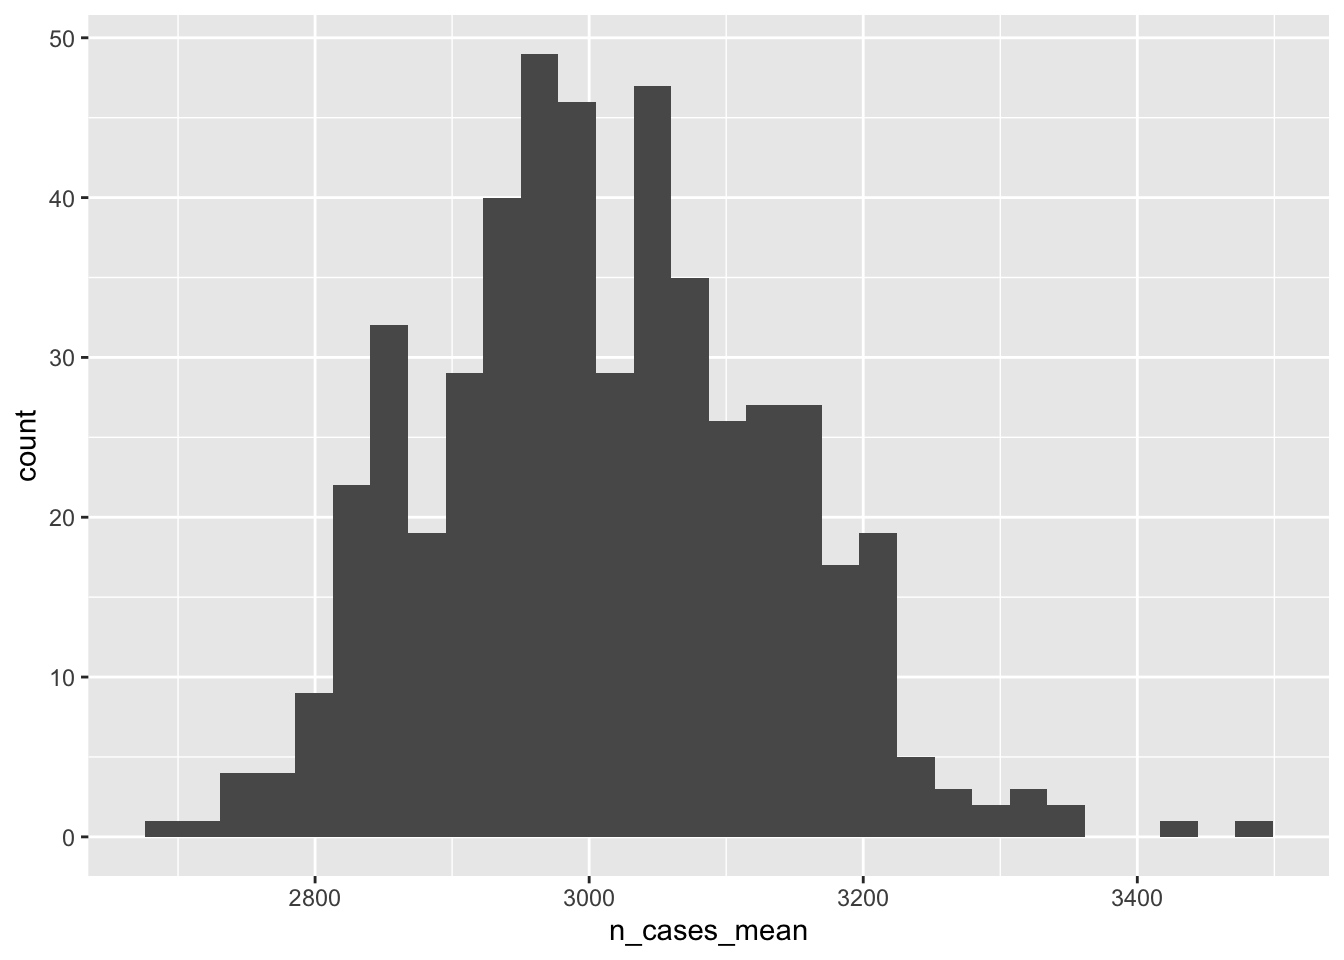
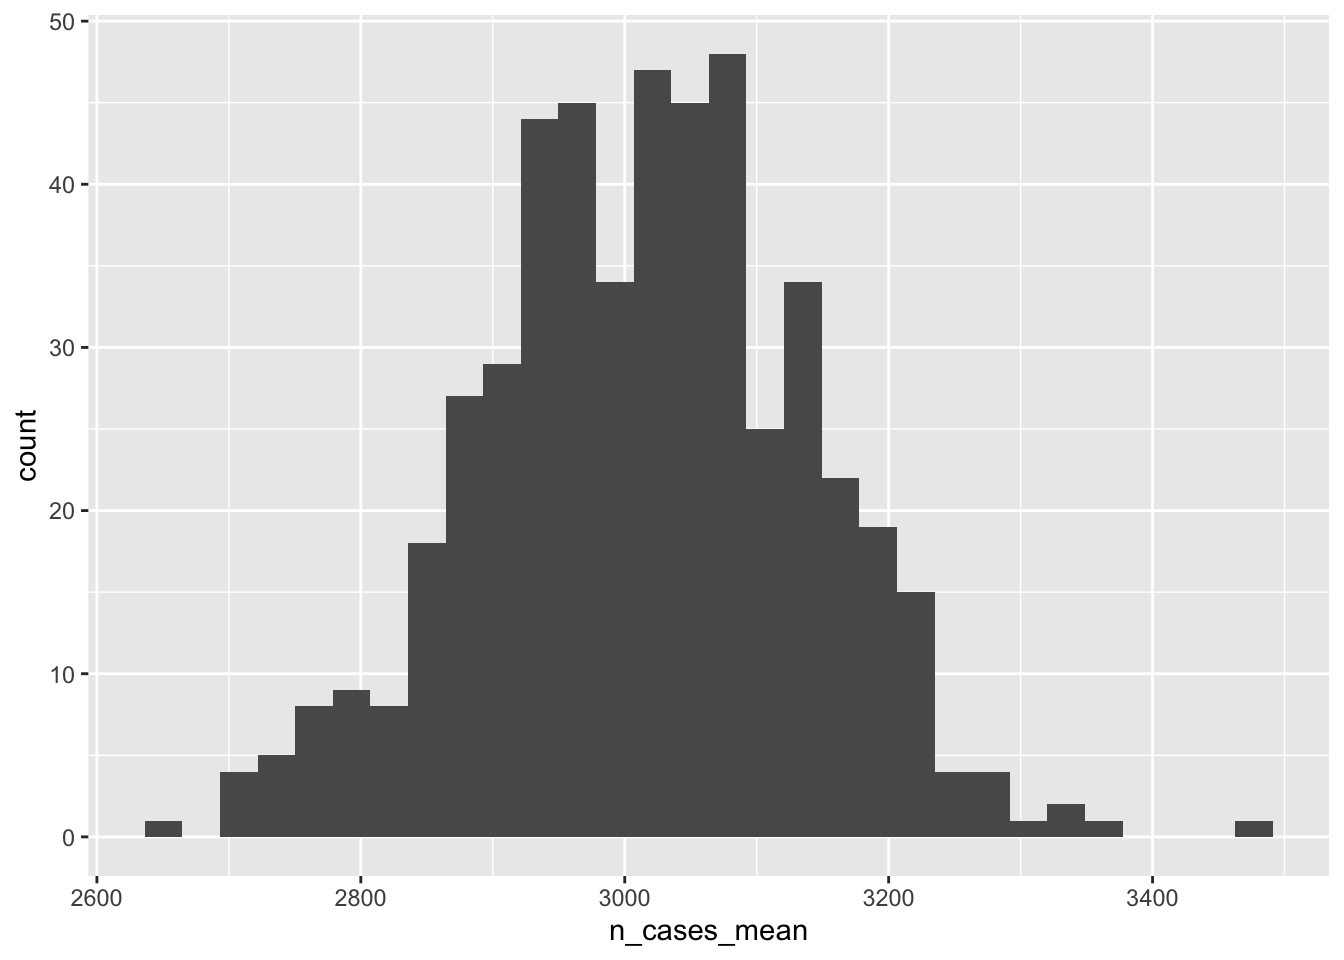
typo in definition of bootstrapping

diff --git a/docs/5-monte-carlo-boot-purrr.html b/docs/5-monte-carlo-boot-purrr.html
@@ -11,7 +11,7 @@
 
 <meta name="author" content="Michael D. Garber, PhD MPH" />
 
-<meta name="date" content="2022-08-12" />
+<meta name="date" content="2022-08-18" />
 
 <title>Monte Carlo simulations and boots with the purrr::map_dfr()</title>
 
@@ -370,7 +370,7 @@ div.tocify {
 
 <h1 class="title toc-ignore">Monte Carlo simulations and boots with the purrr::map_dfr()</h1>
 <h4 class="author">Michael D. Garber, PhD MPH</h4>
-<h4 class="date">2022-08-12</h4>
+<h4 class="date">2022-08-18</h4>
 
 </div>
 
@@ -412,7 +412,7 @@ div.tocify {
 <h2><span class="header-section-number">3.2</span> Bootstrapping</h2>
 <p>Monte Carlo simulation in its typical implementation cannot, however, directly estimate the sampling distribution. But bootstrapping can.</p>
 <blockquote>
-<p>“In statistics…, bootstrapping has come to mean to resampling [with replacement] repeatedly and randomly from an original, initial sample using each bootstrapped sample to compute a statistic. The resulting empirical distribution of the statistic is then examined and interpreted as an approximation to the true sampling distribution.”<span class="citation"><sup><a href="#ref-barreto2005" role="doc-biblioref">5</a></sup></span></p>
+<p>“In statistics…, bootstrapping has come to mean to re-sample [with replacement] repeatedly and randomly from an original, initial sample using each bootstrapped sample to compute a statistic. The resulting empirical distribution of the statistic is then examined and interpreted as an approximation to the true sampling distribution.”<span class="citation"><sup><a href="#ref-barreto2005" role="doc-biblioref">5</a></sup></span></p>
 </blockquote>
 <p>The bootstrap was introduced by Bradley Efron in the late 1970s.<span class="citation"><sup><a href="#ref-bootstra2022c" role="doc-biblioref">6</a>,<a href="#ref-efron1979" role="doc-biblioref">7</a></sup></span> There are many forms of bootstrapping, including ways to bootstrap residuals from regression models.<span class="citation"><sup><a href="#ref-efron2016" role="doc-biblioref">8</a></sup></span> In its most basic form, to bootstrap means to re-sample observations from the sample, compute summary statistics from each re-sampled sample, and use the distribution of those summary statistics to infer the sampling distribution.</p>
 <p>The bootstrap is similar conceptually to Monte Carlo techniques because it involves randomly changing the data over repeated iterations and summarizing results of those iterations. The key difference is that the bootstrap estimates a distribution using data we have, and, under the Monte Carlo technique described, the distribution of each variable is specified by the analyst.</p>
@@ -535,18 +535,18 @@ monte_carlo_sim_lots  = rep_id_val_list %&gt;%
 <p>Take a look at the output.</p>
 <pre class="r"><code>monte_carlo_sim_lots</code></pre>
 <pre><code>## # A tibble: 50,000 × 7
-##    county_id state   pop   dem  prev n_cases rep_id
-##        &lt;int&gt; &lt;dbl&gt; &lt;int&gt; &lt;int&gt; &lt;dbl&gt;   &lt;int&gt;  &lt;int&gt;
-##  1         1     1  9953     0 0.380    3781      1
-##  2         2     1 10138     0 0.126    1273      1
-##  3         3     1  9997     1 0.608    6079      1
-##  4         4     1  9985     0 0.228    2274      1
-##  5         5     1 10054     1 0.638    6416      1
-##  6         6     1  9788     1 0.240    2349      1
-##  7         7     1  9915     0 0.267    2647      1
-##  8         8     1 10022     1 0.397    3978      1
-##  9         9     1 10141     1 0.292    2960      1
-## 10        10     1 10005     1 0.285    2847      1
+##    county_id state   pop   dem   prev n_cases rep_id
+##        &lt;int&gt; &lt;dbl&gt; &lt;int&gt; &lt;int&gt;  &lt;dbl&gt;   &lt;int&gt;  &lt;int&gt;
+##  1         1     1  9836     0 0.183     1801      1
+##  2         2     1  9966     1 0.333     3319      1
+##  3         3     1 10039     0 0.0265     266      1
+##  4         4     1 10106     0 0.340     3437      1
+##  5         5     1  9923     1 0.397     3935      1
+##  6         6     1  9985     1 0.217     2168      1
+##  7         7     1  9996     1 0.304     3038      1
+##  8         8     1 10098     1 0.256     2585      1
+##  9         9     1  9836     1 0.196     1923      1
+## 10        10     1 10014     0 0.279     2794      1
 ## # … with 49,990 more rows
 ## # ℹ Use `print(n = ...)` to see more rows</code></pre>
 <p>How many rows?</p>
@@ -586,7 +586,7 @@ monte_carlo_sim_lots_summary</code></pre>
 <pre><code>## # A tibble: 1 × 5
 ##   state n_cases_mean_ll n_cases_mean_med n_cases_mean_ul simulation_type
 ##   &lt;dbl&gt;           &lt;dbl&gt;            &lt;dbl&gt;           &lt;dbl&gt; &lt;chr&gt;          
-## 1     1           2798.            3002.           3247. monte-carlo</code></pre>
+## 1     1           2759.            3018.           3235. monte-carlo</code></pre>
 </div>
 </div>
 <div id="bootstrap" class="section level2" number="4.2">
@@ -600,23 +600,23 @@ monte_carlo_sim_lots_summary</code></pre>
 <pre><code>## # A tibble: 100 × 6
 ##    county_id state   pop   dem   prev n_cases
 ##        &lt;int&gt; &lt;dbl&gt; &lt;int&gt; &lt;int&gt;  &lt;dbl&gt;   &lt;int&gt;
-##  1        65     1  9910     0 0.312     3089
-##  2        89     1 10073     1 0.431     4337
-##  3        72     1 10051     0 0.0820     823
-##  4         9     1  9965     0 0.223     2219
-##  5        32     1 10089     1 0.221     2229
-##  6        68     1 10085     0 0.396     3996
-##  7        50     1 10047     1 0.354     3557
-##  8        45     1 10006     1 0.396     3961
-##  9        95     1  9891     0 0.215     2130
-## 10        20     1  9981     1 0.564     5626
+##  1        60     1 10036     0 0.237     2382
+##  2        56     1 10007     0 0.0461     460
+##  3        12     1  9955     0 0.198     1969
+##  4        57     1  9956     1 0.385     3831
+##  5        89     1 10073     1 0.431     4337
+##  6        86     1 10100     1 0.338     3408
+##  7        53     1 10075     1 0.273     2750
+##  8        27     1  9981     0 0.338     3369
+##  9        16     1  9998     0 0.337     3370
+## 10        50     1 10047     1 0.354     3557
 ## # … with 90 more rows
 ## # ℹ Use `print(n = ...)` to see more rows</code></pre>
 <p>As expected, we have the same number of rows, but fewer unique values for <code>county_id.</code> Some are repeating.</p>
 <pre class="r"><code>nrow(monte_carlo_sim_one_boot)</code></pre>
 <pre><code>## [1] 100</code></pre>
 <pre class="r"><code>n_distinct(monte_carlo_sim_one_boot$county_id)</code></pre>
-<pre><code>## [1] 68</code></pre>
+<pre><code>## [1] 60</code></pre>
 <p>Repeat this bootstrap procedure 500 times by first writing a function and then iterating replications through that function using <code>purrr::map_dfr()</code></p>
 <div id="define-a-function-for-replications-1" class="section level3" number="4.2.1">
 <h3><span class="header-section-number">4.2.1</span> Define a function for replications</h3>
@@ -636,18 +636,18 @@ monte_carlo_sim_lots_summary</code></pre>
 <h3><span class="header-section-number">4.2.3</span> Summarize results</h3>
 <pre class="r"><code>boot_lots</code></pre>
 <pre><code>## # A tibble: 50,000 × 7
-##    county_id state   pop   dem   prev n_cases rep_id
-##        &lt;int&gt; &lt;dbl&gt; &lt;int&gt; &lt;int&gt;  &lt;dbl&gt;   &lt;int&gt;  &lt;int&gt;
-##  1       100     1 10128     1 0.222     2252      1
-##  2        56     1 10007     0 0.0461     460      1
-##  3        15     1  9842     0 0.197     1943      1
-##  4        21     1  9985     0 0.126     1261      1
-##  5        17     1  9955     0 0.257     2553      1
-##  6        67     1 10035     1 0.497     4991      1
-##  7        75     1 10060     0 0.249     2501      1
-##  8        32     1 10089     1 0.221     2229      1
-##  9        52     1  9995     0 0.0861     860      1
-## 10        27     1  9981     0 0.338     3369      1
+##    county_id state   pop   dem  prev n_cases rep_id
+##        &lt;int&gt; &lt;dbl&gt; &lt;int&gt; &lt;int&gt; &lt;dbl&gt;   &lt;int&gt;  &lt;int&gt;
+##  1        84     1 10247     0 0.291    2983      1
+##  2        41     1 10015     1 0.468    4684      1
+##  3        19     1 10000     0 0.527    5271      1
+##  4        11     1  9885     1 0.329    3251      1
+##  5         3     1  9863     1 0.492    4849      1
+##  6        44     1  9948     0 0.263    2612      1
+##  7        19     1 10000     0 0.527    5271      1
+##  8         3     1  9863     1 0.492    4849      1
+##  9        60     1 10036     0 0.237    2382      1
+## 10        94     1 10091     1 0.269    2716      1
 ## # … with 49,990 more rows
 ## # ℹ Use `print(n = ...)` to see more rows</code></pre>
 <p>What’s the distribution of <code>n_cases_mean</code> over bootstrap replications?</p>
@@ -678,15 +678,15 @@ boot_lots_summary</code></pre>
 <pre><code>## # A tibble: 1 × 5
 ##   state n_cases_mean_ll n_cases_mean_med n_cases_mean_ul simulation_type
 ##   &lt;dbl&gt;           &lt;dbl&gt;            &lt;dbl&gt;           &lt;dbl&gt; &lt;chr&gt;          
-## 1     1           2814.            3060.           3292. bootstrap</code></pre>
+## 1     1           2807.            3049.           3307. bootstrap</code></pre>
 <p>How does this estimate of the sampling distribution of <code>n_cases_mean</code> align with the truth? We happen to know the truth here. It’s the distribution of <code>n_cases_mean</code> between the Monte Carlo simulations, defined above.</p>
 <pre class="r"><code>monte_carlo_sim_lots_summary %&gt;% 
   bind_rows(boot_lots_summary)</code></pre>
 <pre><code>## # A tibble: 2 × 5
 ##   state n_cases_mean_ll n_cases_mean_med n_cases_mean_ul simulation_type
 ##   &lt;dbl&gt;           &lt;dbl&gt;            &lt;dbl&gt;           &lt;dbl&gt; &lt;chr&gt;          
-## 1     1           2798.            3002.           3247. monte-carlo    
-## 2     1           2814.            3060.           3292. bootstrap</code></pre>
+## 1     1           2759.            3018.           3235. monte-carlo    
+## 2     1           2807.            3049.           3307. bootstrap</code></pre>
 </div>
 </div>
 </div>
@@ -732,7 +732,7 @@ function_result_one_county</code></pre>
 <pre><code>## # A tibble: 1 × 5
 ##   state county_id example_var_x example_var_y example_var_z
 ##   &lt;dbl&gt;     &lt;int&gt;         &lt;dbl&gt;         &lt;dbl&gt;         &lt;int&gt;
-## 1     1         2         -1.13             4             0</code></pre>
+## 1     1         2         -1.68             4             0</code></pre>
 </div>
 <div id="references" class="section level1 unnumbered">
 <h1><strong>References</strong></h1>
